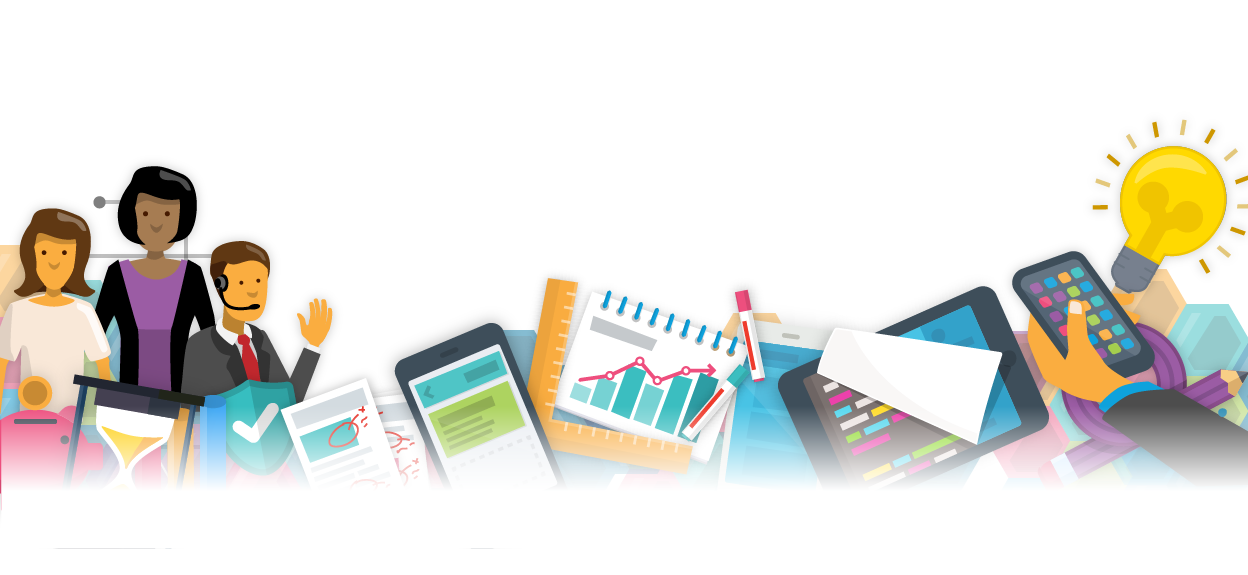
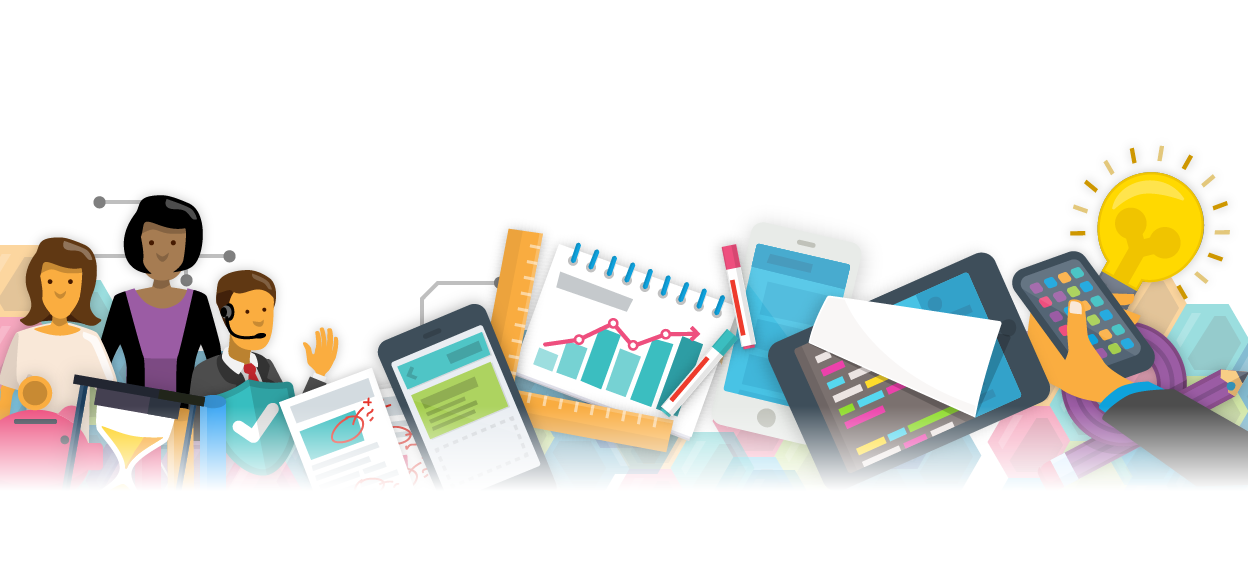
rm unrequited prefixes + tweak hero image

diff --git a/_sass/pages/_seminar.scss b/_sass/pages/_seminar.scss
@@ -43,8 +43,6 @@
       box-shadow: 0 0 10px rgba(black, 0.2);
       z-index: -5;
       transform: rotate(2deg) skew(1deg);
-      -ms-transform: rotate(2deg) skew(1deg);
-      -webkit-transform: rotate(2deg) skew(1deg);
     }
 
     &:after {
@@ -55,8 +53,6 @@
       box-shadow: 0 0 10px rgba(black, 0.2);
       z-index: -1;
       transform: rotate(-0.3deg) skew(1deg);
-      -ms-transform: rotate(-0.3deg) skew(1deg);
-      -webkit-transform: rotate(-0.3deg) skew(1deg);
     }
   }
 
@@ -86,9 +82,7 @@
   margin-top: -130px;
   left: -12px;
   position: relative;
-  -webkit-transform: rotate(-0.3deg) skew(1deg);
   transform: rotate(-0.3deg) skew(1deg);
-  -ms-transform: rotate(-0.3deg) skew(1deg);
 
   @media screen and ( max-width: $large ) {
     margin-top: -100px;
@@ -170,8 +164,6 @@ h4.seminar-titlestack-sub {
       box-shadow: 0 0 10px rgba(black, 0.2);
       z-index: -5;
       transform: rotate(2deg) skew(1deg);
-      -ms-transform: rotate(2deg) skew(1deg);
-      -webkit-transform: rotate(2deg) skew(1deg);
     }
   }
 }
@@ -186,8 +178,6 @@ h4.seminar-titlestack-sub {
       box-shadow: 0 0 10px rgba(black, 0.2);
       z-index: -5;
       transform: rotate(2deg) skew(1deg);
-      -ms-transform: rotate(2deg) skew(1deg);
-      -webkit-transform: rotate(2deg) skew(1deg);
     }
   }
 }
@@ -321,7 +311,7 @@ h5.seminar-speaker-jobtitle {
   font-style: normal;
   font-size: $alpha - 4px;
   font-family: $museo;
-  font-weight: bold;
+  font-weight: $font-bold;
   text-transform: none;
 
   @media screen and ( max-width: $small ) {
@@ -381,7 +371,7 @@ h3.seminar-header-time::before {
   background: url(../img/seminar/lightbulb-sprite2.png) left center;
   // go 1 step above the total
   animation: bulbSprite 1s steps(18) infinite;
-             // bulbRotate 2000ms linear infinite;
+  // bulbRotate 2000ms linear infinite;
   transform: scale(0.5) rotate(24deg);
   top: -60px;
   right: -50px;
@@ -429,14 +419,10 @@ h3.seminar-header-time::before {
   &::before {
     background-color: lighten($ink, 50);
     transform: rotate(0.8deg) scale(1.2);
-    -ms-transform: rotate(0.8deg) scale(1.2);
-    -webkit-transform: rotate(0.8deg) scale(1.2);
   }
 
   &::after {
     transform: rotate(-1.8deg) scale(1.2);
-    -ms-transform: rotate(-1.8deg) scale(1.2);
-    -webkit-transform: rotate(-1.8deg) scale(1.2);
   }
 
   .seminar-form-input {
@@ -540,17 +526,9 @@ input.seminar-form-submit {
       left: 0;
     }
 
-    &.linkedin:after {
-      @include sprite($linkedin-pink);
-    }
-
-    &.twitter:after {
-      @include sprite($twitter-pink);
-    }
-
-    &.vimeo:after {
-      @include sprite($vimeo-pink);
-    }
+    &.linkedin:after { @include sprite($linkedin-pink); }
+    &.twitter:after { @include sprite($twitter-pink); }
+    &.vimeo:after { @include sprite($vimeo-pink); }
   }
 }
 
@@ -589,15 +567,7 @@ h3.seminar-info-item {
     left: 0;
   }
 
-  &.linkedin:after {
-    @include sprite($linkedin-pink);
-  }
-
-  &.twitter:after {
-    @include sprite($twitter-pink);
-  }
-
-  &.vimeo:after {
-    @include sprite($vimeo-pink);
-  }
+  &.linkedin:after { @include sprite($linkedin-pink); }
+  &.twitter:after { @include sprite($twitter-pink); }
+  &.vimeo:after { @include sprite($vimeo-pink); }
 }
